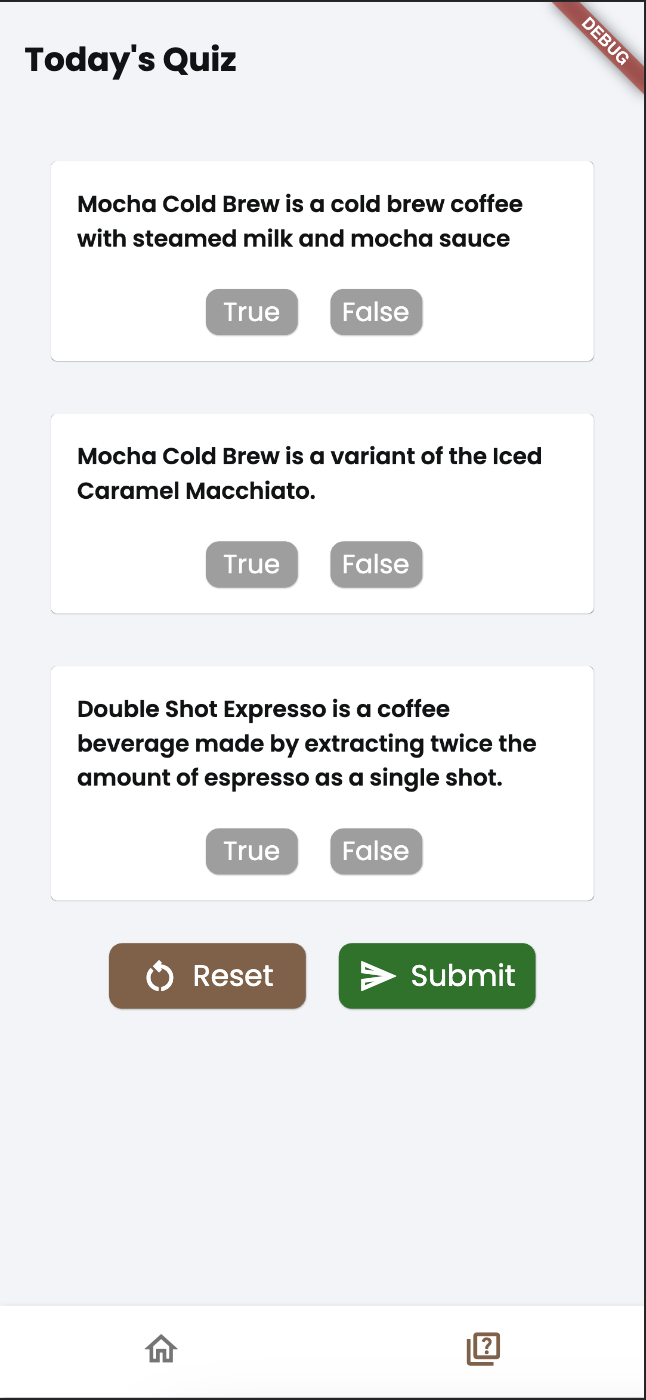
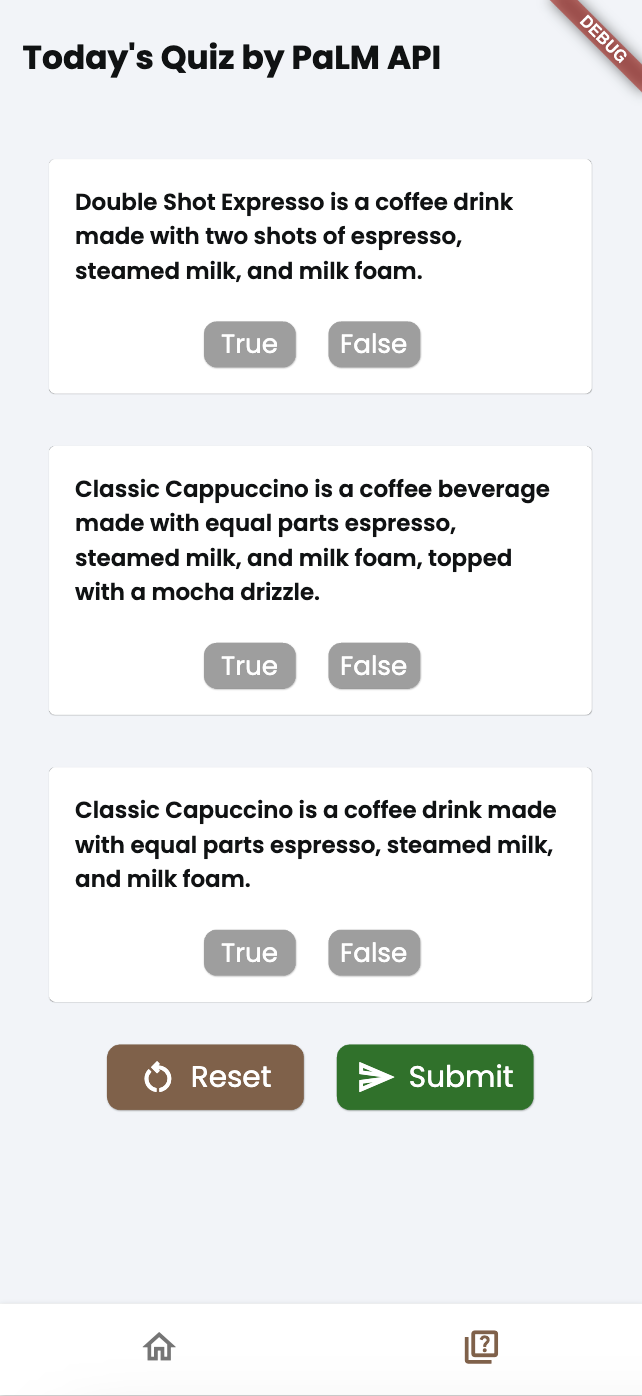
Update quizz pages

diff --git a/lib/modules/quizz/pages/quizz_pages.dart b/lib/modules/quizz/pages/quizz_pages.dart
@@ -137,7 +137,6 @@ class _QuizzPageState extends State<QuizzPage> {
   void initState() {
     quizzService.generateRandomQuizQuestions().then((value) {
       setState(() {
-        print(value);
         questions = value;
       });
     });
@@ -175,7 +174,7 @@ class _QuizzPageState extends State<QuizzPage> {
                             // Generated code for this Text Widget...
                             Expanded(
                               child: Text(
-                                "Today's Quiz",
+                                "Today's Quiz by PaLM API",
                                 style: FlutterFlowTheme.of(context)
                                     .bodyMedium
                                     .override(
